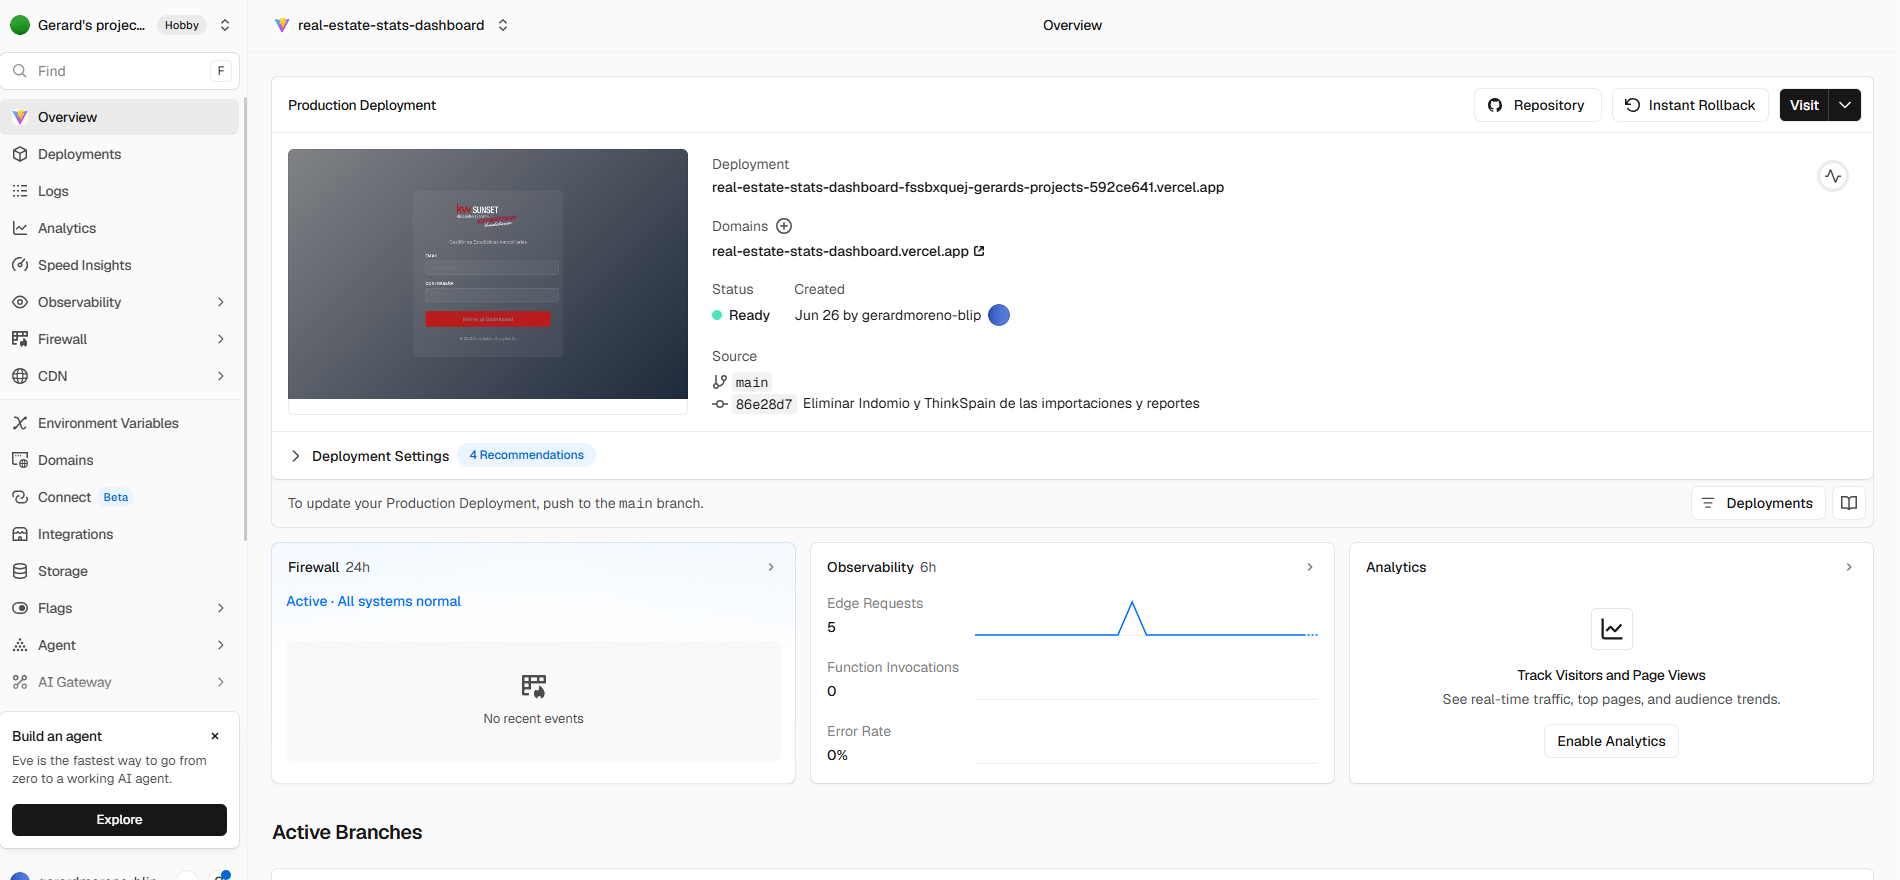
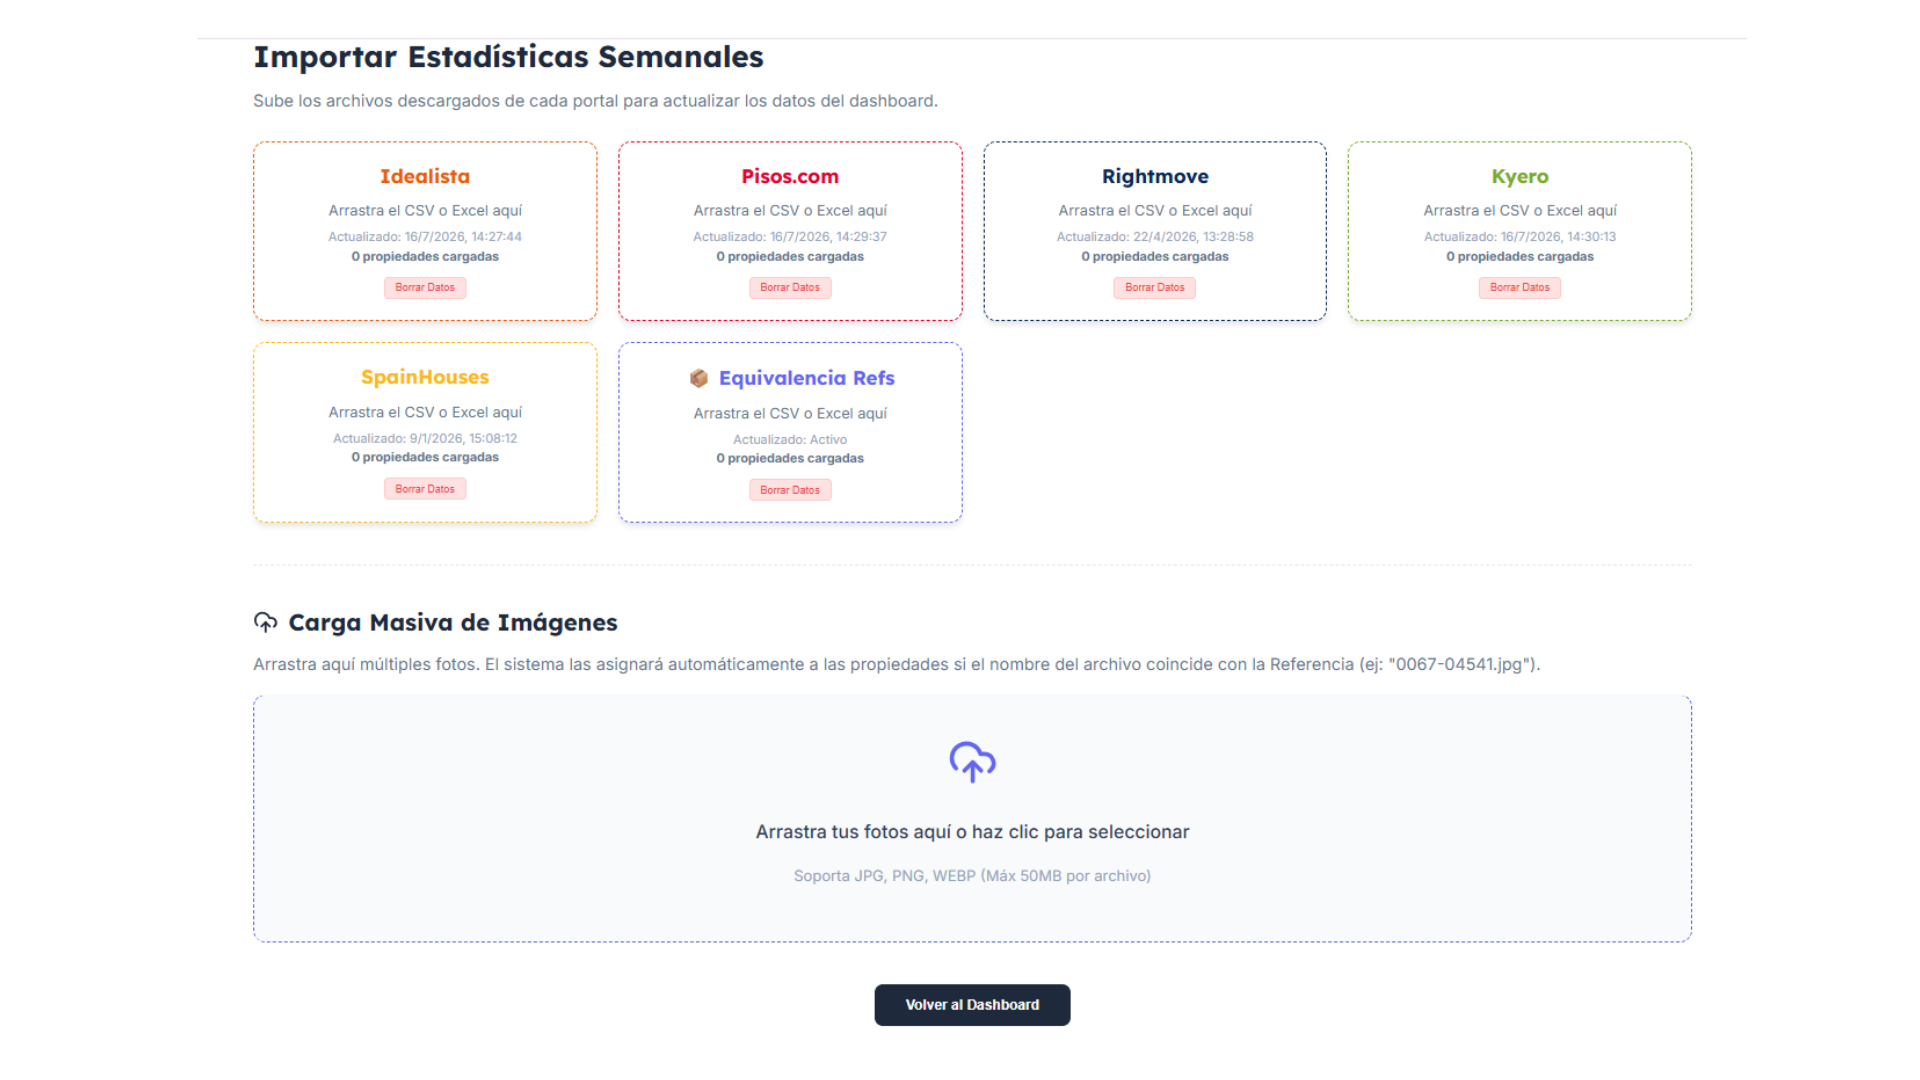
Anclas de navegacion, imagenes dedicadas por seccion y ajustes en stats-dashboard

diff --git a/app/(root)/page.jsx b/app/(root)/page.jsx
@@ -14,8 +14,10 @@ import Button from "@/components/Button";
 import Me from "@/public/image/me/gerard.jpg";
 import MeAbout from "@/public/image/me/gerard-2.jpg";
 import Setup from "@/public/image/projects/automation/leads/leads-diagram.png";
-import ProjectAll from "@/public/image/projects/automation/appsheet/appsheet-cover.jpg";
+import ProjectAll from "@/public/image/projects/automation/appsheet/appsheet-cover.png";
 import LeadsIcons from "@/public/image/projects/automation/leads/icons-diagram.png";
+import ProjectsHero from "@/public/image/projects/automation/appsheet/Proyectos.jpg";
+import ContactImage from "@/public/image/me/gerard-3.jpg";
 import Hr from "@/components/Hr";
 // icons
 import { FontAwesomeIcon } from "@fortawesome/react-fontawesome";
@@ -226,7 +228,7 @@ const MyPage = () => {
 								type: "spring",
 							}}>
 							<Button variation="primary">
-								<Link href="/about">Saber más</Link>
+								<a href="/about#quien-soy">Saber más</a>
 							</Button>
 						</motion.div>
 					</div>
@@ -254,7 +256,7 @@ const MyPage = () => {
 								damping: 20,
 							}}>
 							<Image
-								src={ProjectAll}
+								src={ProjectsHero}
 								fill
 								sizes="(max-width: 768px) 80vw, 30vw"
 								className="object-cover"
@@ -283,7 +285,7 @@ const MyPage = () => {
 								delay: 0.2,
 								type: "spring",
 							}}>
-							Proyectos de automatización e IA que he construido para
+							Proyectos de automatización e IA construidos y diseñados para
 							mejorar procesos reales de negocio.
 							<span className="bg-transparent md:bg-gray-100 bg-opacity-50 xl:bg-transparent">
 								{" "}
@@ -297,7 +299,7 @@ const MyPage = () => {
 								type: "spring",
 							}}>
 							<Button variation="primary">
-								<Link href="/projects">Saber más</Link>
+								<a href="/projects#proyectos">Saber más</a>
 							</Button>
 						</motion.div>
 					</div>
@@ -307,7 +309,7 @@ const MyPage = () => {
 				<div className="relative md:h-screen w-screen  gap-4 p-10 flex justify-center items-center flex-col overflow-hidden">
 					<div className="z-0 mb-48 md:mb-0  md:absolute md:top-1/2  md:right-[10%] md:-translate-y-1/2">
 						<motion.div
-							className="relative bg-slate-300 rounded-sm h-[400px] md:h-[60vh] w-[80vw] md:w-[30vw] grayscale hover:grayscale-0"
+							className="relative bg-slate-300 rounded-sm aspect-[9/16] w-[80vw] md:w-[30vw] grayscale hover:grayscale-0"
 							initial={{
 								x: 300,
 								opacity: 0,
@@ -325,7 +327,7 @@ const MyPage = () => {
 								damping: 20,
 							}}>
 							<Image
-								src={LeadsIcons}
+								src={ContactImage}
 								fill
 								sizes="(max-width: 768px) 80vw, 30vw"
 								className="object-cover"

diff --git a/app/about/components/about/about.jsx b/app/about/components/about/about.jsx
@@ -7,12 +7,14 @@ import Hr from "@/components/Hr";
 
 function Title() {
 	return (
-		<div className="mt-10 flex flex-col justify-start items-center w-full pl-10 md:pl-32">
-			<div className="flex justify-center items-center flex-col my-5 self-start ">
-				<Hr variant="long"></Hr>
-				<h1 className="text-3xl font-bold mt-3">¿Quién soy?</h1>
+		<div id="quien-soy" className="mt-10 flex flex-col justify-start items-center w-full pl-10 md:pl-32">
+			<div className="flex justify-center items-center flex-col my-10">		
+				<div className="flex justify-center items-center flex-col my-5 self-start ">
+					<Hr variant="long"></Hr>
+					<h1 className="text-3xl font-bold mt-3">¿Quién soy?</h1>
+				</div>
 			</div>
-		</div>
+		</div>	
 	);
 }
 

diff --git a/app/projects/page.jsx b/app/projects/page.jsx
@@ -6,8 +6,8 @@ import Button from "@/components/Button";
 import Image from "next/image";
 
 // images
-import Highlight1 from "@/public/image/projects/automation/appsheet/appsheet-cover.jpg";
-import Highlight2 from "@/public/image/projects/automation/appsheet/appsheet-calendar.jpg";
+import Highlight1 from "@/public/image/projects/automation/appsheet/appsheet-cover.png";
+import Highlight2 from "@/public/image/projects/automation/appsheet/appsheet-calendar.png";
 import Highlight3 from "@/public/image/projects/automation/appsheet/appsheet-menus.jpg";
 import ProjectAll from "@/public/image/projects/automation/leads/icons-diagram.png";
 
@@ -27,7 +27,9 @@ export default function Page() {
 	const projects = Projects.Projects.filter((item) => item.show === true);
 
 	useEffect(() => {
+		if (!window.location.hash) {
 		window.scrollTo(0, 0);
+	}
 	}, []);
 	return (
 		<>
@@ -85,7 +87,7 @@ export default function Page() {
 						<h1 className="text-3xl font-bold mt-3">Hightlight</h1>
 					</div>
 				</div>
-				<div className="relative w-screen mx-auto container gap-4 px-10 grid grid-cols-1 md:grid-cols-2 mb-10">
+				<div id="proyectos" className="relative w-screen mx-auto container gap-4 px-10 grid grid-cols-1 md:grid-cols-2 mb-10">
 					<div className="flex justify-center items-start flex-col mb-5 ">
 						<div className="images relative w-full  aspect-square">
 							<div className="absolute top-28 left-10 h-[40%]  aspect-video grayscale hover:grayscale-0 transition-all ease duration-300 hover:scale-150 z-10">

diff --git a/app/about/page.jsx b/app/about/page.jsx
@@ -20,7 +20,9 @@ import About from "./components/about/about.jsx";
 
 export default function Page() {
 	useEffect(() => {
-		window.scrollTo(0, 0);
+		if (!window.location.hash) {
+			window.scrollTo(0, 0);
+		}
 	}, []);
 
 	return (

diff --git a/app/about/components/experience.jsx b/app/about/components/experience.jsx
@@ -78,7 +78,7 @@ const experiences = [
 		type: "Tiempo parcial",
 		location: "Tenerife",
 		description:
-			"Fotografía y vídeo (reels) para restaurantes, concesionarios, inmobiliarias, campos de golf y eventos. Colaboración habitual con un ayuntamiento, creando fotografía y contenido en vídeo.",
+			"Fotografía y vídeo (reels) para restaurantes, concesionarios, inmobiliarias, campos de golf y eventos en general. Colaboración habitual con instituciones gubernamentarles, creando fotografía y contenido en vídeo.",
 		skills: [
 			"Fotografía",
 			"Vídeo",